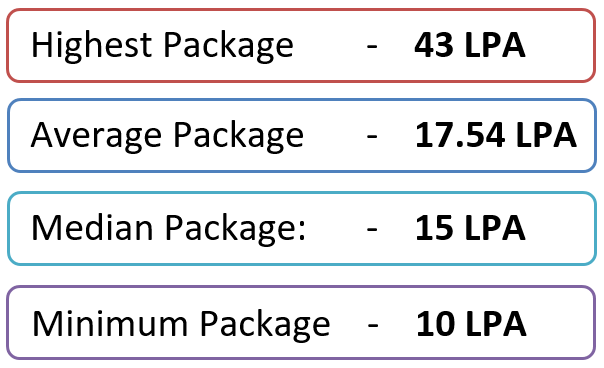
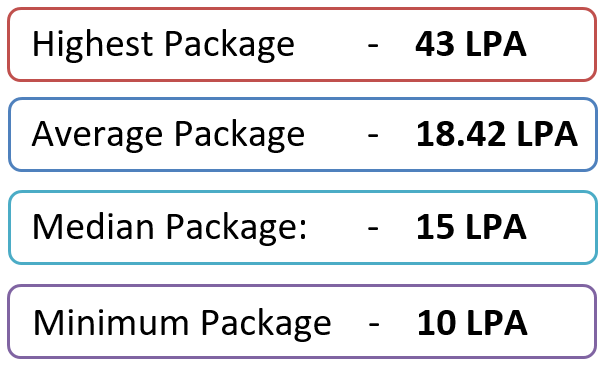
updates

diff --git a/src/components/PlacementStats.js b/src/components/PlacementStats.js
@@ -14,7 +14,7 @@ const Placement = props => {
         backgroundColor: "rgba(255,99,132,0.2)",
         borderColor: "rgba(255,99,132,1)",
         borderWidth: 1,
-        data: [43, 17.54, 10]
+        data: [43, 18.42, 10]
       },
       {
         label: "2018",
